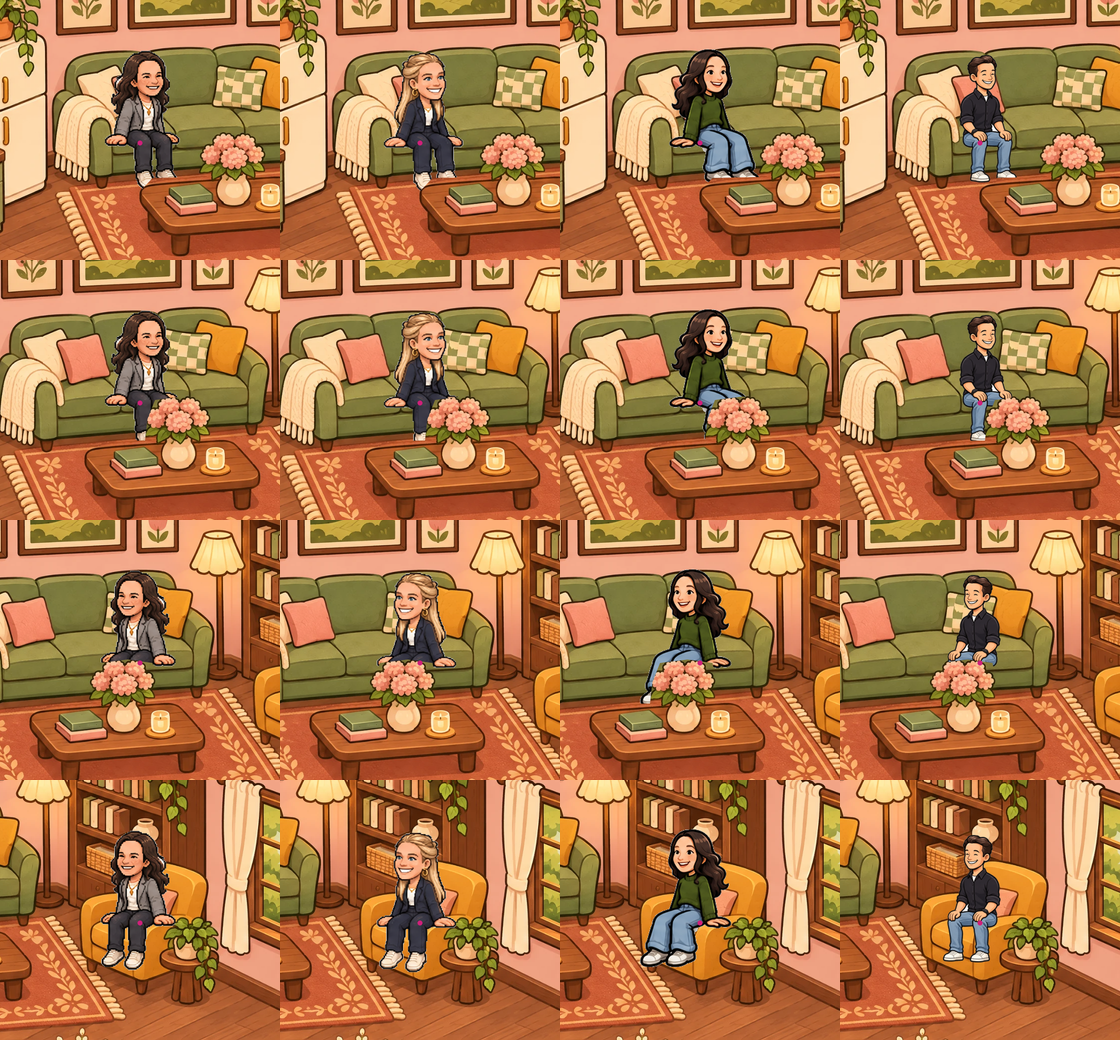
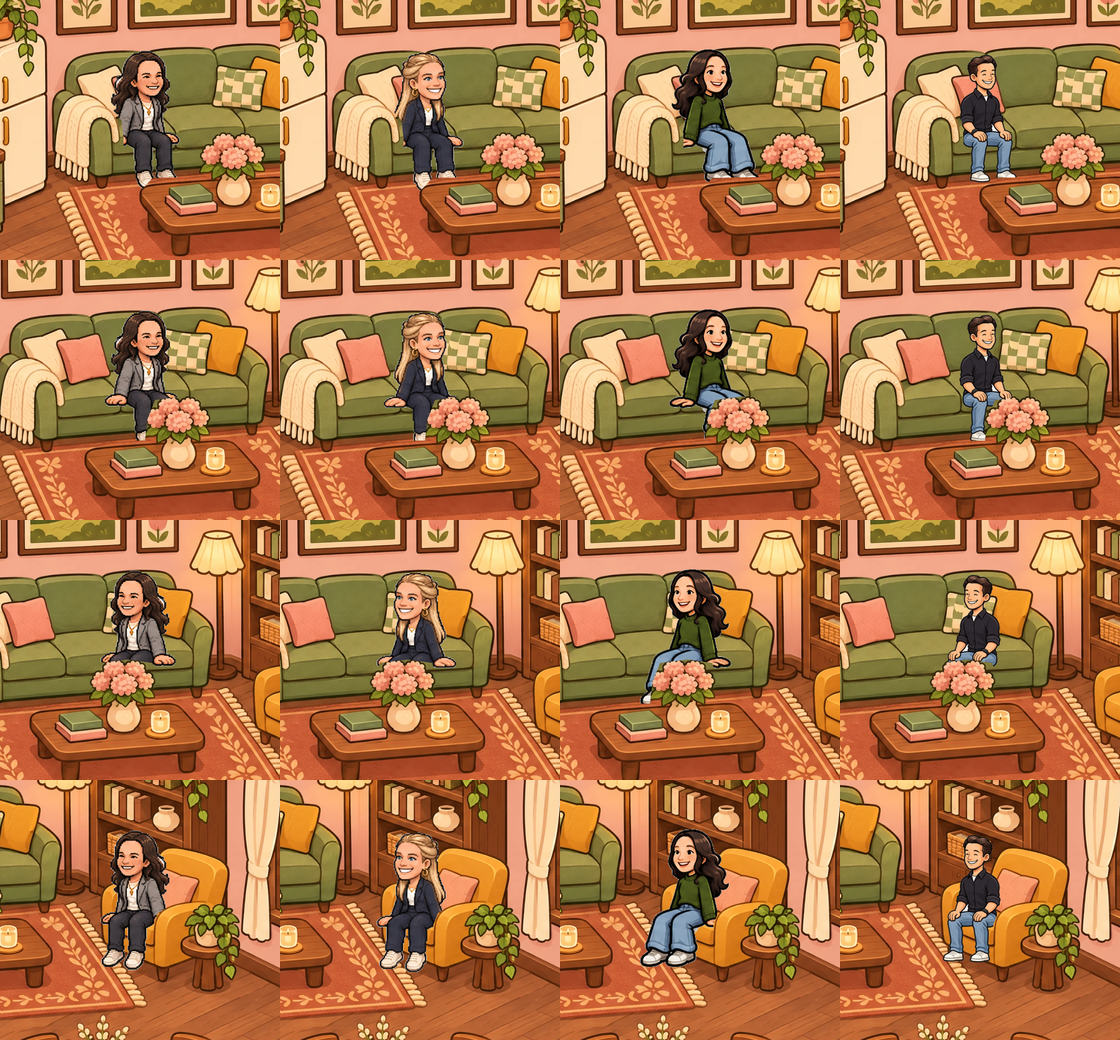
BADI Wereld: voorgrondlaag voor armleuningen over wie zit
Bank: beide armleuningen. Fauteuil: de voorste armleuning met de plant;
de zitplek staat nu op de zitting. Controlebeeld bijgewerkt.

diff --git a/src/lib/world/engine/renderer.ts b/src/lib/world/engine/renderer.ts
@@ -5,11 +5,12 @@
  */
 import { animationOf, type Avatar } from "./avatar";
 import { backToFront, occludersOver } from "./depth";
+import type { Polygon } from "./geometry";
 import type { Grid } from "./grid";
 import type { LoadedCharacter } from "./sprites";
 import { frameIndex } from "./sprites";
 import type { SceneDef, Seat } from "./scene";
-import { seatOccluder } from "./seats";
+import { seatForeground, seatOccluder } from "./seats";
 
 export interface Camera {
   x: number;
@@ -75,6 +76,20 @@ function drawCharacter(ctx: CanvasRenderingContext2D, c: LoadedCharacter, a: Ava
   ctx.restore();
 }
 
+const paths = new WeakMap<Polygon, Path2D>();
+/** A polygon as a canvas path, made once. */
+function pathOf(poly: Polygon): Path2D {
+  let p = paths.get(poly);
+  if (!p) {
+    p = new Path2D();
+    const path = p;
+    poly.forEach(([x, y], i) => (i ? path.lineTo(x, y) : path.moveTo(x, y)));
+    p.closePath();
+    paths.set(poly, p);
+  }
+  return p;
+}
+
 export interface RenderInput {
   ctx: CanvasRenderingContext2D;
   scene: SceneDef;
@@ -114,6 +129,15 @@ export function render({ ctx, scene, background, outlines, avatars, characters, 
       ctx.drawImage(background, 0, 0, scene.width, scene.height);
       ctx.restore();
     }
+    // Sitting: the armrest or backrest in front of you goes over you.
+    if (seat && a.state === "sit") {
+      for (const poly of seatForeground(scene.occluders, seat)) {
+        ctx.save();
+        ctx.clip(pathOf(poly));
+        ctx.drawImage(background, 0, 0, scene.width, scene.height);
+        ctx.restore();
+      }
+    }
   }
 
   if (debug && grid) drawDebug(ctx, scene, grid, outlines);
@@ -145,6 +169,11 @@ function drawDebug(ctx: CanvasRenderingContext2D, scene: SceneDef, grid: Grid, o
     ctx.stroke();
     ctx.strokeStyle = "#1e6fd9";
   }
+  // foreground parts (armrests, backrests): purple
+  ctx.strokeStyle = "#8a3fd1";
+  ctx.setLineDash([12, 8]);
+  for (const o of scene.occluders) for (const poly of o.foreground ?? []) ctx.stroke(pathOf(poly));
+  ctx.setLineDash([]);
   for (const s of scene.seats) drawSeatMarker(ctx, s, false);
   ctx.restore();
 }

diff --git a/src/lib/world/scenes/woonkamer.ts b/src/lib/world/scenes/woonkamer.ts
@@ -49,6 +49,11 @@ export const WOONKAMER: SceneDef = {
       id: "sofa",
       outline: [[705, 475], [730, 420], [750, 395], [890, 390], [1025, 380], [1160, 380], [1200, 440], [1235, 465], [1242, 500], [1240, 600], [1215, 630], [810, 662], [780, 655], [710, 650], [702, 600]],
       front: [[700, 655], [810, 662], [1215, 632], [1245, 620]],
+      // the armrests (left one with the throw), in front of someone sitting at either end
+      foreground: [
+        [[700, 505], [745, 482], [792, 488], [818, 508], [838, 530], [842, 565], [842, 640], [790, 662], [700, 660]],
+        [[1197, 472], [1215, 462], [1240, 470], [1252, 500], [1250, 612], [1225, 628], [1196, 618]],
+      ],
     },
     {
       id: "salontafel",
@@ -59,6 +64,8 @@ export const WOONKAMER: SceneDef = {
       id: "fauteuil",
       outline: [[1322, 600], [1345, 530], [1370, 505], [1470, 498], [1552, 508], [1577, 548], [1575, 612], [1600, 640], [1602, 700], [1578, 722], [1572, 786], [1528, 788], [1522, 728], [1505, 716], [1450, 770], [1402, 772], [1358, 722], [1330, 692], [1320, 645]],
       front: [[1340, 712], [1440, 770], [1550, 788], [1602, 730]],
+      // the armrest that faces the viewer, with the plant in front of it
+      foreground: [[[1427, 655], [1436, 632], [1458, 620], [1500, 613], [1545, 610], [1560, 640], [1560, 700], [1500, 735], [1460, 746], [1432, 744], [1425, 700]]],
     },
     {
       id: "eettafel",

diff --git a/tests/world-engine.test.ts b/tests/world-engine.test.ts
@@ -6,7 +6,7 @@ import { backToFront, occludersOver } from "@/lib/world/engine/depth";
 import { frameIndex } from "@/lib/world/engine/sprites";
 import { newAvatar, sit, step, walk } from "@/lib/world/engine/avatar";
 import { WOONKAMER } from "@/lib/world/scenes/woonkamer";
-import { readSeats, seatAt, seatOccluder, sitOrigin } from "@/lib/world/engine/seats";
+import { readSeats, seatAt, seatForeground, seatOccluder, sitOrigin } from "@/lib/world/engine/seats";
 
 const grid = buildGrid(WOONKAMER);
 
@@ -143,6 +143,12 @@ describe("seats", () => {
     const seat = WOONKAMER.seats[0];
     expect(seatAt(WOONKAMER, [seat.hip[0] + 10, seat.hip[1] - 10])?.id).toBe(seat.id);
     expect(seatAt(WOONKAMER, [200, 1400])).toBeNull();
+  });
+  it("draws the armrest in front over someone in the armchair, and nothing in the middle of the sofa that is not there", () => {
+    const chair = WOONKAMER.seats.find((s) => seatOccluder(WOONKAMER.occluders, s) === "fauteuil")!;
+    expect(seatForeground(WOONKAMER.occluders, chair).length).toBeGreaterThan(0);
+    const middle = WOONKAMER.seats.find((s) => s.id === "zit-2")!;
+    for (const poly of seatForeground(WOONKAMER.occluders, middle)) expect(pointInPolygon(middle.hip, poly)).toBe(false);
   });
   it("puts the zitAnker exactly on the hip point at the standing scale", () => {
     const [x, y] = sitOrigin([1000, 600], { x: 160, y: 168 }, 1.25);

diff --git a/src/lib/world/engine/seats.ts b/src/lib/world/engine/seats.ts
@@ -1,5 +1,5 @@
 /** Seats: hit testing and which piece of furniture you sit on. */
-import { dist, pointInPolygon, type Pt } from "./geometry";
+import { dist, pointInPolygon, type Polygon, type Pt } from "./geometry";
 import type { Occluder, SceneDef, Seat } from "./scene";
 
 /** The furniture whose outline holds the seat: not drawn over the one sitting on it. */
@@ -19,6 +19,12 @@ export function seatAt(scene: SceneDef, p: Pt, radius = 90): Seat | null {
     }
   }
   return best;
+}
+
+/** The parts of the furniture drawn over someone sitting on this seat (armrests, backrests). */
+export function seatForeground(occluders: readonly Occluder[], seat: Seat): Polygon[] {
+  const id = seatOccluder(occluders, seat);
+  return occluders.find((o) => o.id === id)?.foreground ?? [];
 }
 
 /** Where a sitting character's frame goes: its zitAnker on the hip point. */

diff --git a/src/lib/world/engine/scene.ts b/src/lib/world/engine/scene.ts
@@ -10,6 +10,12 @@ export interface Occluder {
   outline: Polygon;
   /** The furniture's front edge on the floor, left to right. A character whose feet are above it (smaller y) is behind. */
   front: Polygon;
+  /**
+   * Parts of this piece that are in front of someone sitting on it, such as
+   * an armrest that faces the viewer or the back of a chair seen from behind.
+   * Cut from the background and drawn over the one sitting there.
+   */
+  foreground?: Polygon[];
 }
 
 /**

diff --git a/docs/wereld/WERELD.md b/docs/wereld/WERELD.md
@@ -210,6 +210,6 @@ Zitten op de bank was gokwerk: de zitplekken stonden met de hand in de code. Fas
 - Getest op telefoonformaat: zitplek toevoegen, slepen, verwijderen, proberen, opslaan. Tests voor het inlezen van zitplekken, raken, het meubel onder een zitplek en het zitAnker.
 
 **Open**
-- Uitgeknipte voorgrondlaag per meubel met arm- of rugleuning, boven het zittende poppetje (stap 3 van deze tussendoor), na akkoord op de plaatsingsmodus.
+- ~~Voorgrondlaag voor arm- en rugleuningen~~ Gedaan: een meubel kan `foreground`-vlakken hebben (in de ruimte, bij het uitgeknipte meubel). Die worden uit de illustratie geknipt en over wie erop zit getekend. Woonkamer: beide armleuningen van de bank (links met het plaid) en de voorste armleuning van de fauteuil met de plant ervoor. In `?debug=1` paars gestippeld. De fauteuil-plek staat nu op de zitting (1400, 652), zodat je ín de stoel zit.
 - ~~De vier zitplekken zijn nog schattingen~~ Opgelost: geplaatst en gecontroleerd door alle vier poppetjes op alle vier plekken te renderen met de rekenregels van de engine (`docs/wereld/zitplekken-controle.png`, rijen zit-1 t/m zit-4, kolommen Anne, Daphne, Irene, Bram). De middelste plek valt samen met Bram in het stijlvoorbeeld. De plaatsingsmodus is er voor correcties achteraf.
 - zitAnker x is het midden van de romp: Anne 158, Daphne 155, Irene 138, Bram 147.
